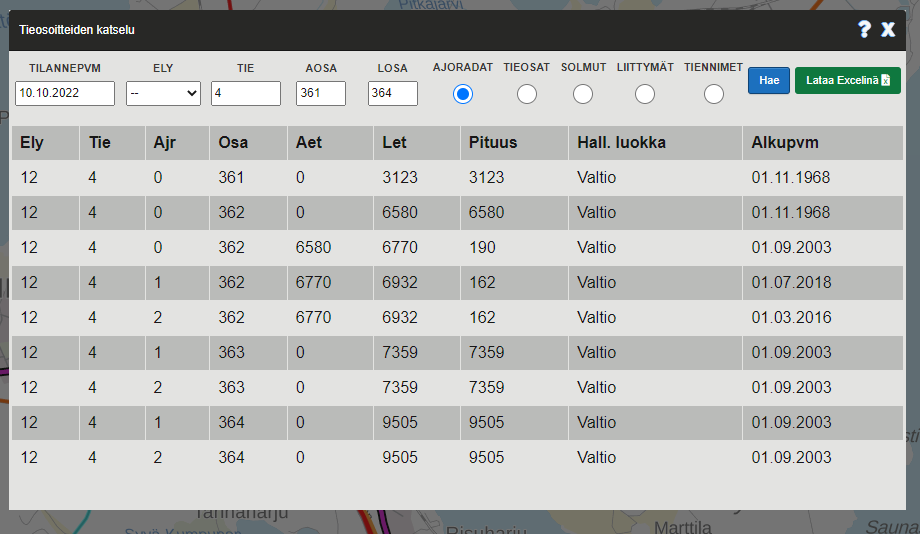
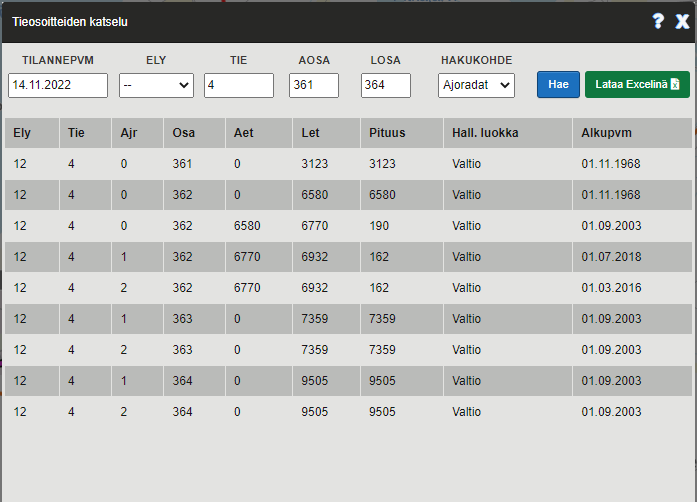
VIITE-2857 update road address browser manual pictures and parameter … (#1340)
* VIITE-2857 update road address browser manual pictures and parameter texts

diff --git a/viite-UI/manual/index.md b/viite-UI/manual/index.md
@@ -915,17 +915,16 @@ Ajoratoja, tieosia, solmuja sekä liitymiä haettaessa pakollisia hakuehtoja ova
 Tiennimiä on mahdollista hakea koko tieverkolta. (Haku pelkällä tilannepäivämäärällä)
 
 (1) Tilanne pvm: Karsitaan tilanne pvm -kenttää uudemmat tiedot pois hakutuloksista   
-(2) Ely: Haetaan vain annetun ELYn kohteita   
+(2) Ely: Haetaan vain valitun ELYn kohteita   
 (3) Tie: Rajataan haku annetun tienumeron mukaisiin kohteisiin   
 (4) Aosa: Pienin tieosanumero jolta haettavia kohteita haetaan   
-(5) Losa: Suurin tieosanumero jolta haettavia kohteita haetaan
-
-####  Haettava kohde
-(6) Ajoradat: Hakee annettujen hakuehtojen mukaiset ajoradat  
-(7) Tieosat: Hakee annettujen hakuehtojen mukaiset tieosat   
-(8) Solmut: Hakee annettujen hakuehtojen mukaiset solmut   
-(9) Liittymät: Hakee annettujen hakuehtojen mukaiset liittymät   
-(10) Tiennimet: Hakee annettujen hakuehtojen mukaiset tiennimet
+(5) Losa: Suurin tieosanumero jolta haettavia kohteita haetaan   
+(6) Hakukohde:
+ - Ajoradat: Hakee annettujen hakuehtojen mukaiset ajoradat  
+ - Tieosat: Hakee annettujen hakuehtojen mukaiset tieosat   
+ - Solmut: Hakee annettujen hakuehtojen mukaiset solmut   
+ - Liittymät: Hakee annettujen hakuehtojen mukaiset liittymät   
+ - Tiennimet: Hakee annettujen hakuehtojen mukaiset tiennimet
 
 
 Huom! Haku saattaa kestää useita sekunteja haettaessa pelkästään tilannepäivämäärällä ja elyllä (Viite hakee valitut kohteet koko elyn alueelta)
